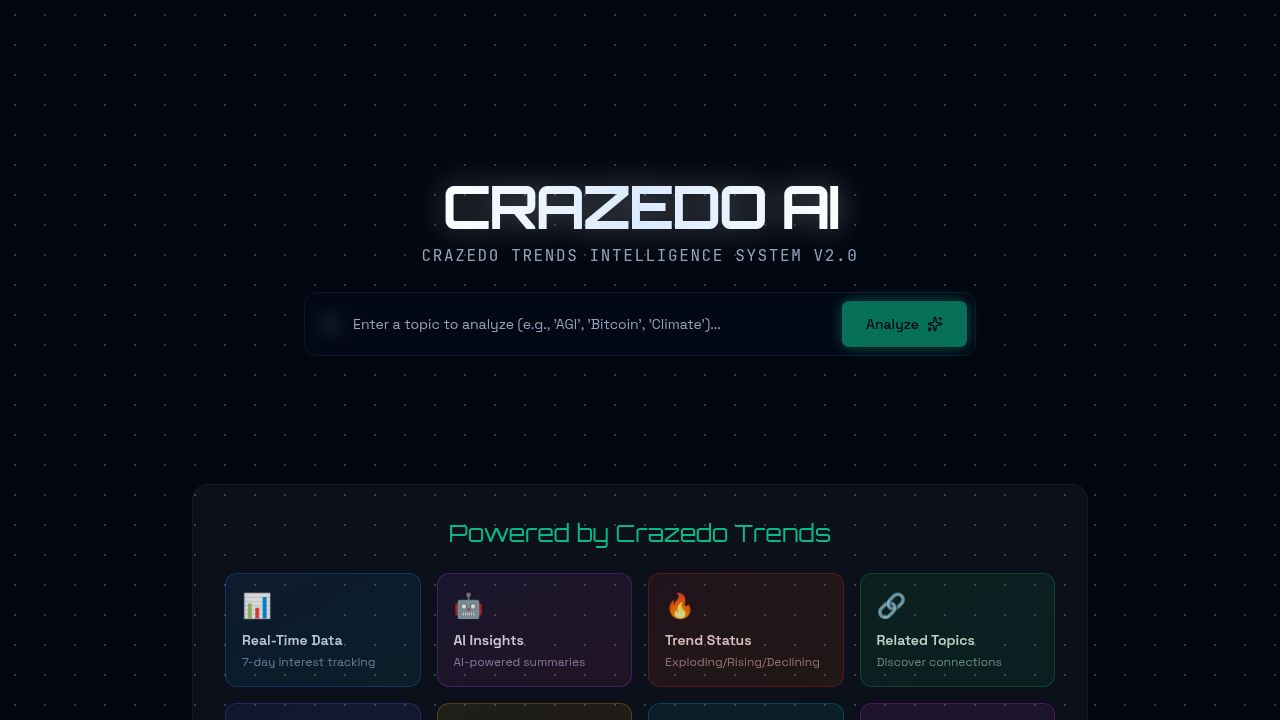
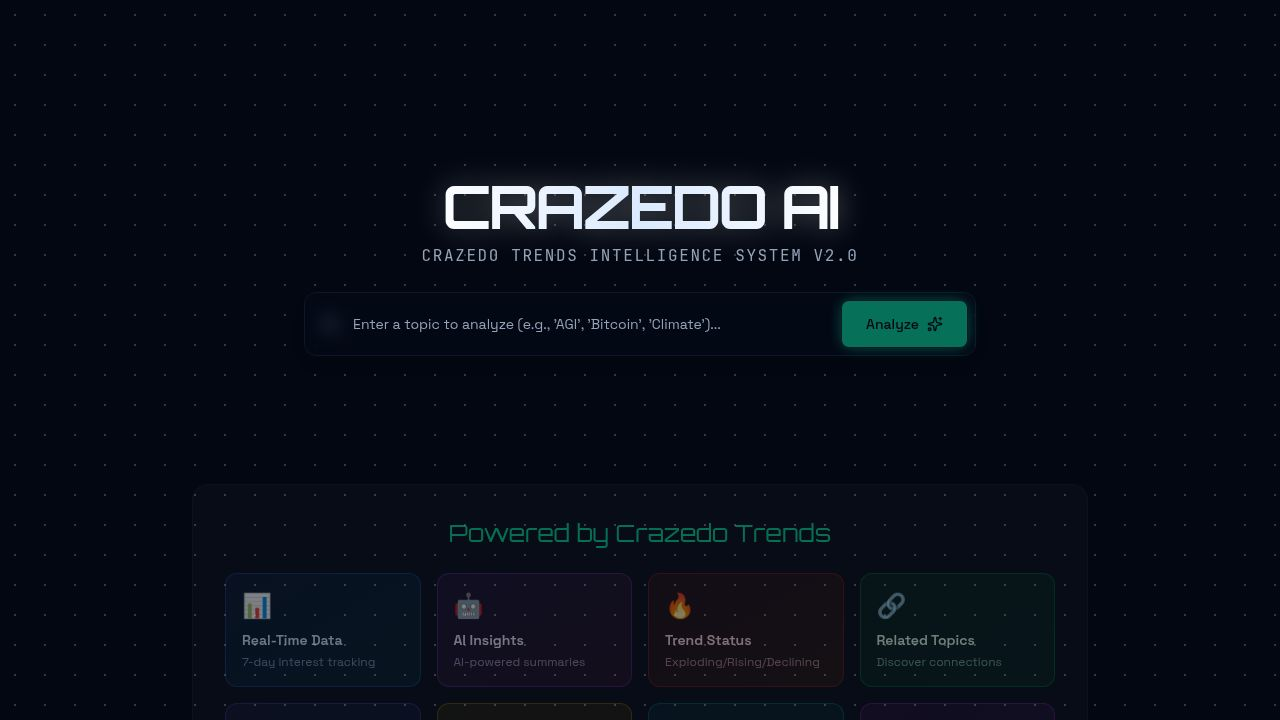
Add a fixed back button to return to search results
Removes the back button from TrendDashboard and adds a fixed, green back button to home.tsx that appears after search results are displayed.

Replit-Commit-Author: Agent
Replit-Commit-Session-Id: 34668135-4d99-4758-acf0-2ae79d80e0ca
Replit-Commit-Checkpoint-Type: full_checkpoint
Replit-Commit-Event-Id: cb2de07a-7c4f-4b69-8e21-dd0050db8c28
Replit-Commit-Screenshot-Url: https://storage.googleapis.com/screenshot-production-us-central1/670e5098-6651-4ee7-a7ab-e3f02323c6df/34668135-4d99-4758-acf0-2ae79d80e0ca/XnRDmIw

diff --git a/client/src/pages/home.tsx b/client/src/pages/home.tsx
@@ -5,7 +5,7 @@ import { analyzeTrend, TrendData } from "@/lib/api";
 import { motion } from "framer-motion";
 import { toast } from "sonner";
 import { Card, CardContent, CardHeader, CardTitle, CardDescription } from "@/components/ui/card";
-import { X } from "lucide-react";
+import { X, ArrowLeft } from "lucide-react";
 
 interface SavedTrend {
   topic: string;
@@ -65,6 +65,20 @@ export default function Home() {
       <div className="fixed inset-0 z-0 opacity-20 pointer-events-none" 
            style={{ backgroundImage: 'radial-gradient(circle, #ffffff 1px, transparent 1px)', backgroundSize: '30px 30px' }}>
       </div>
+
+      {/* Fixed Green Back Button - Only visible after search */}
+      {data && !isLoading && (
+        <motion.button
+          initial={{ opacity: 0, x: -20 }}
+          animate={{ opacity: 1, x: 0 }}
+          exit={{ opacity: 0, x: -20 }}
+          onClick={handleBackToSearch}
+          className="fixed top-4 left-4 z-50 p-3 rounded-full bg-emerald-500/20 border border-emerald-500/50 text-emerald-400 hover:bg-emerald-500/30 hover:text-emerald-300 hover:border-emerald-400 transition-all duration-200 shadow-[0_0_15px_rgba(16,185,129,0.3)] hover:shadow-[0_0_25px_rgba(16,185,129,0.5)]"
+          data-testid="button-back-fixed"
+        >
+          <ArrowLeft className="w-5 h-5 md:w-6 md:h-6" />
+        </motion.button>
+      )}
 
       <div className="relative z-10 max-w-7xl mx-auto flex flex-col min-h-[90vh]">
         {/* Header - Animates to top when searched */}

diff --git a/client/src/components/trend-dashboard.tsx b/client/src/components/trend-dashboard.tsx
@@ -298,20 +298,6 @@ ${seasonalPattern}
       className="w-full max-w-6xl mx-auto space-y-6 pb-20"
       data-testid="trend-dashboard"
     >
-      {/* Back to Search Button */}
-      {onBack && (
-        <motion.div variants={item} className="flex justify-start">
-          <button
-            onClick={onBack}
-            className="inline-flex items-center gap-2 px-4 py-2 rounded-full bg-muted/30 hover:bg-muted/50 border border-white/10 text-muted-foreground hover:text-foreground transition-all text-sm font-medium"
-            data-testid="button-back-to-search"
-          >
-            <ArrowLeft className="w-4 h-4" />
-            Back to Search
-          </button>
-        </motion.div>
-      )}
-
       {/* Header Section */}
       <motion.div variants={item} className="grid md:grid-cols-3 gap-6">
         <Card className="md:col-span-2 bg-card/40 backdrop-blur-sm border-primary/20">
